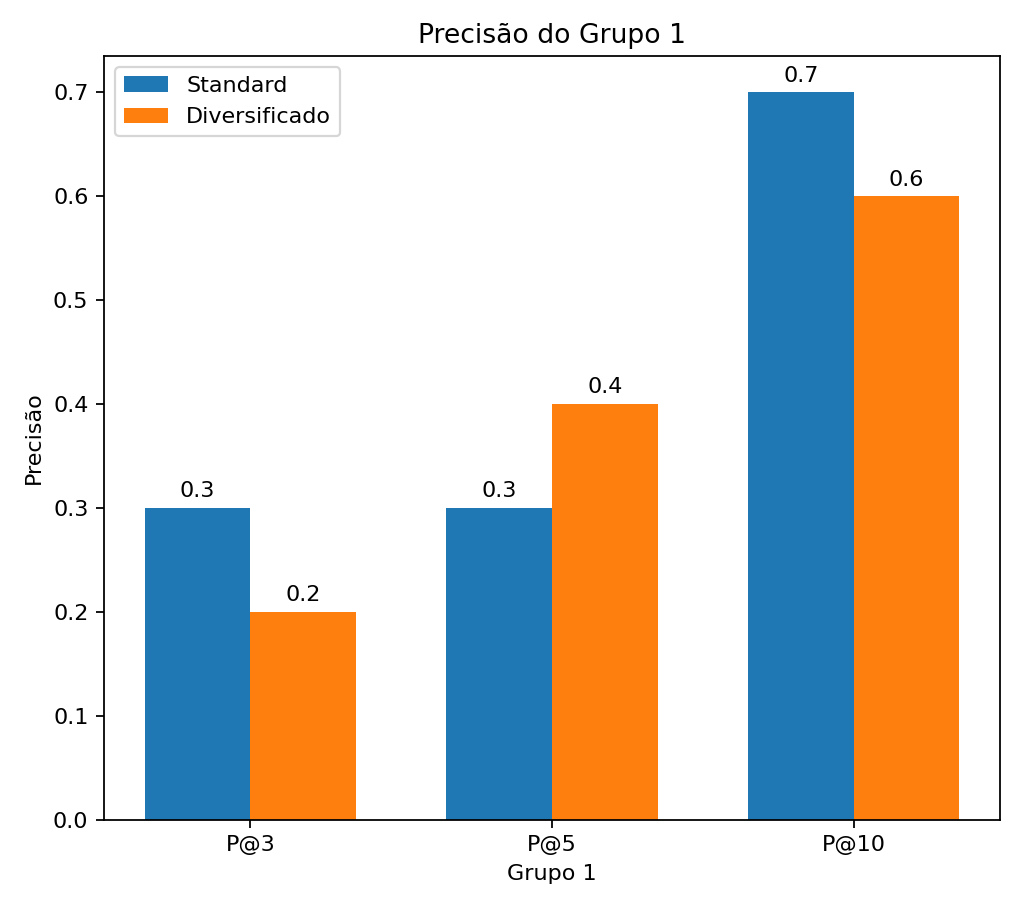
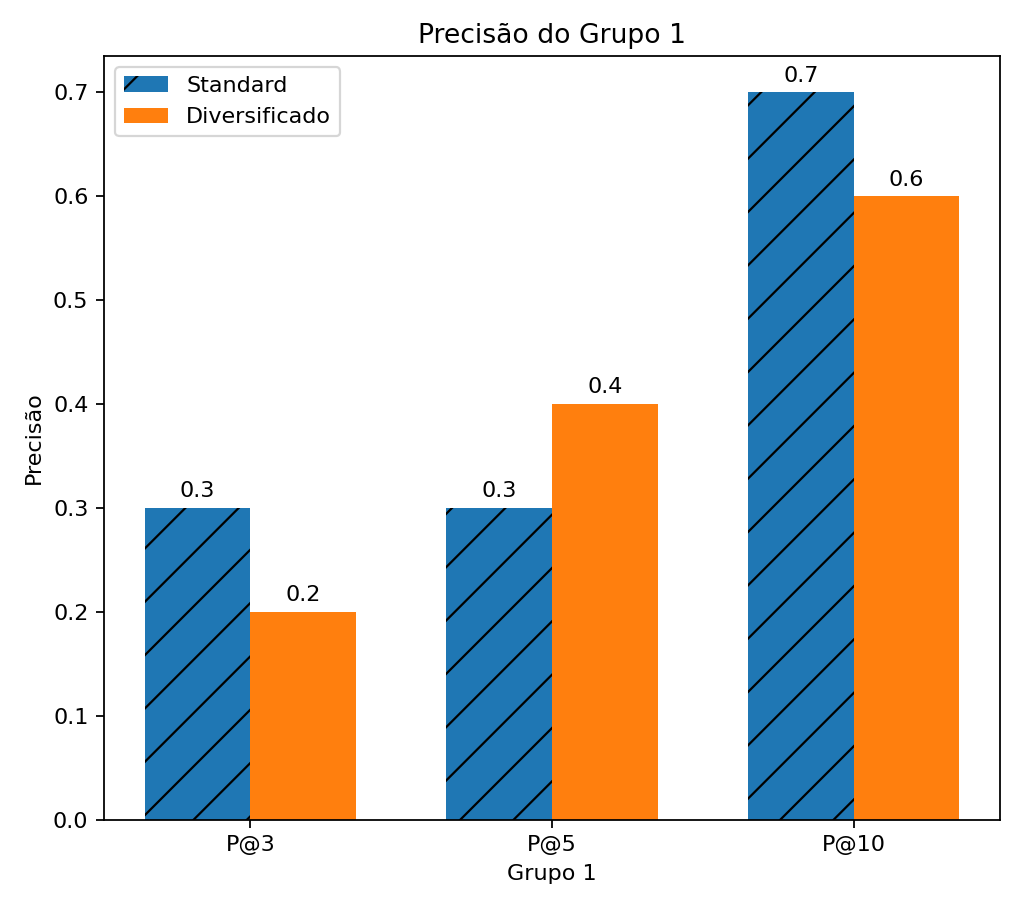
ploty

diff --git a/graphics/plot.py b/graphics/plot.py
@@ -8,14 +8,15 @@ import datetime
 import os
 
 dados = pd.read_csv('../dataset/pois.csv')
-local_data = pd.read_csv('./poi_categoria.csv', index_col=False)
+#local_data = pd.read_csv('./poi_categoria.csv', index_col=False)
+local_data = pd.read_csv('./categorias_avaliacao.csv', index_col=False)
 
 
 print(dados['preference'].value_counts())
 
 
-categoria = local_data['preference_pt'].head(11)
-quantidade = (local_data['quantity']).head(11)
+categoria = local_data['preference'].head(11)
+quantidade = (local_data['avaliacao']).head(11)
 
 # Figure Size
 fig, ax = plt.subplots(figsize =(16, 9))

diff --git a/graphics/precision.py b/graphics/precision.py
@@ -28,8 +28,8 @@ for i in range(len(standard)):
 
     #fig, ax = plt.subplots()
     fig, ax = plt.subplots(figsize =(6.4, 5.8), dpi=160)
-    rects1 = ax.bar(x - width/2, stand, width, label='Standard')
-    rects2 = ax.bar(x + width/2, diver, width, label='Diversificado')
+    rects1 = ax.bar(x - width/2, stand, width, label='Standard', hatch="/")
+    rects2 = ax.bar(x + width/2, diver, width, label='Diversificado', hatch="//")
 
     # Add some text for labels, title and custom x-axis tick labels, etc.
     ax.set_xlabel(standard.loc[i,"grupos"])
